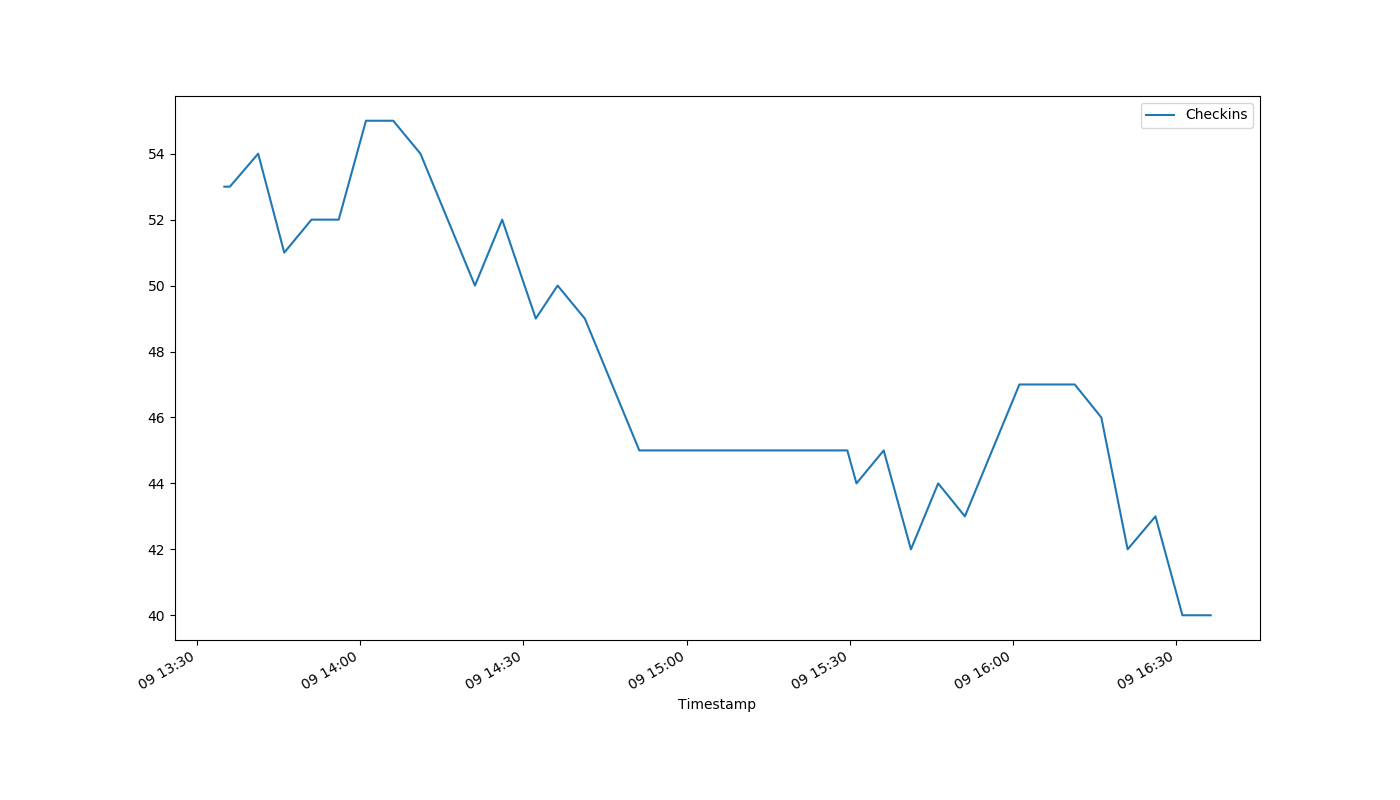
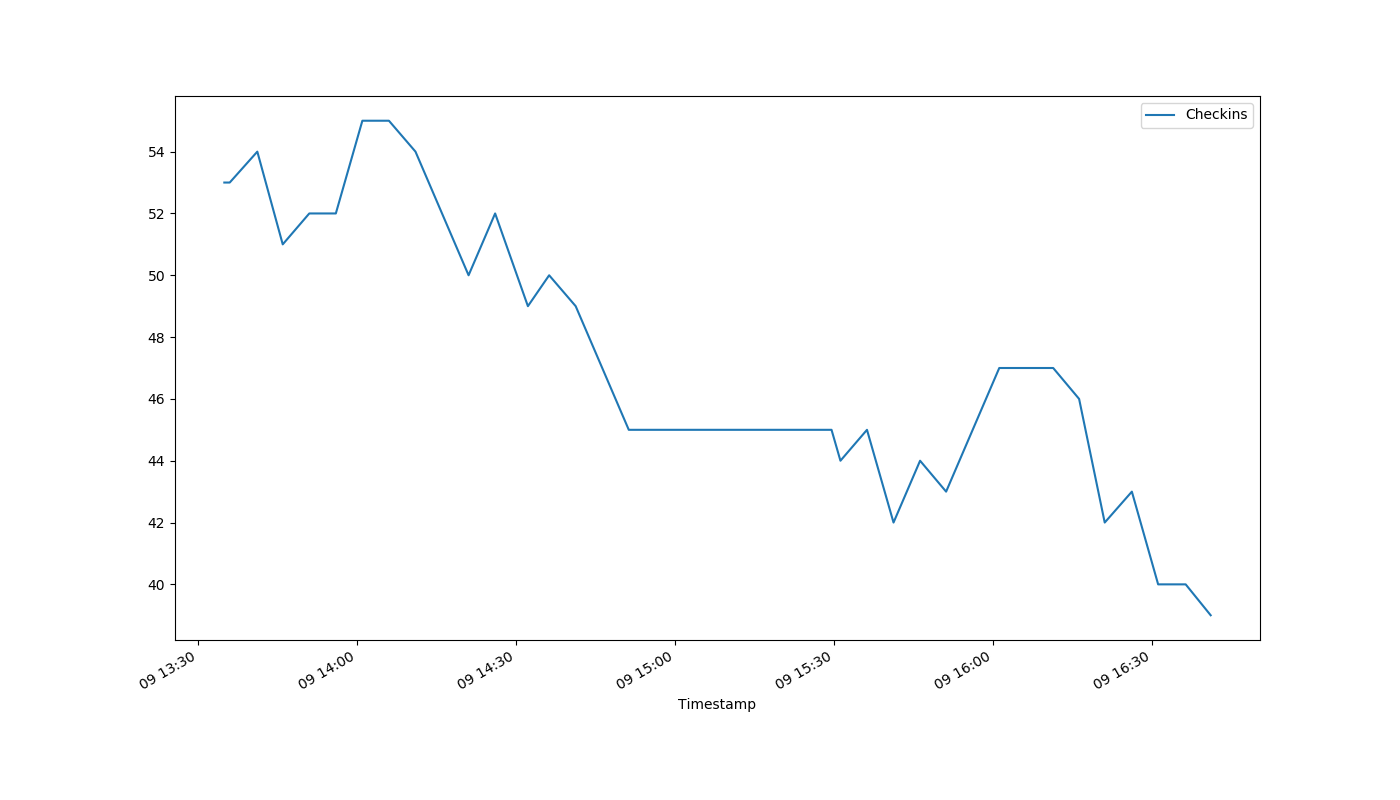
auto-Aug-09-16:41:36

diff --git a/index.html b/index.html
@@ -1,1 +1,1 @@
-<!DOCTYPE html><html><head><meta http-equiv="refresh" content="30"><link rel='stylesheet' href='holmcurrent.css'></head><body><p id='count'>40</p><div id='graph-wrap'><img id='graph' src='holmgraph-Aug-09.png'></div><p id='updated'>Last updated 16:38:15 / 16:36:17</p></body></html>
+<!DOCTYPE html><html><head><meta http-equiv="refresh" content="30"><link rel='stylesheet' href='holmcurrent.css'></head><body><p id='count'>39</p><div id='graph-wrap'><img id='graph' src='holmgraph-Aug-09.png'></div><p id='updated'>Last updated 16:41:16 / 16:41:00</p></body></html>
